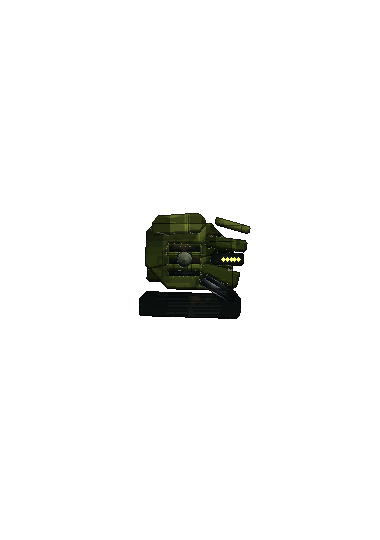
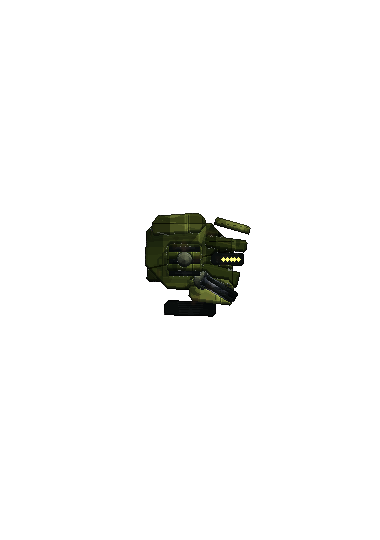
spike 机甲部件模式：呼吸器插座+领圈收窄+组装改回验收腿原比例（统一0.66尺度推锚）

Changed region(s): [[0.3474, 0.4444, 0.6368, 0.5926], [0.6079, 0.4148, 0.6658, 0.4444]]

diff --git a/spikes/mecha-part-patterns/RESEARCH.md b/spikes/mecha-part-patterns/RESEARCH.md
@@ -985,3 +985,15 @@ torsoIR（数据化，替代 layoutTorso 手写布局）。循环一轮【三段
 盖章（编号/贴花类），在 0.6 组装尺度下显大——与参考的大星大编号同 character，
 保留不删（模式完整使用纪律）。载具线：hullIR + walker 腿的合成未做，待
 用户示意（车辆腿可直接用 layout 的 walker 拓扑另组）。
+
+### 三之五十七、软管/接口专项 + 组装比例纠正（2026-11-06）
+
+用户指「暗色带排线黑条纹」在臂、头都有而腿没有，并点名关键在腕部与信号
+灯上方。逐项定案：①臂导轨座宽高写反横探出臂 → 换向贴臂；②软管末端接头
+叠在壳角尖成悬球 → cable 数据加末端落点（perp1），末端潜回壳面插方座；
+③软管改贴臂走线（垂度 26→11）四端接口座；④头呼吸器悬空黑团 → 装甲颌板
+打底 + 管尾接口盘；⑤头底「黑板」实为领圈——宽度误写 1.06 倍头宽且是带条
+纹的框件 → 收窄为颈环（0.54 倍宽）藏颌下。⑥组装后腿变样（用户问）：组装
+时另给腿锚点把腿压短重摆、段长变了板型全变——组装不得重摆已验收部件；
+改回全图统一 0.66 尺度、腿锚点由验收规格相对偏移推出（膝 +88/踝 −4 的
+0.66 倍），detail 等规格参数一并复原。
